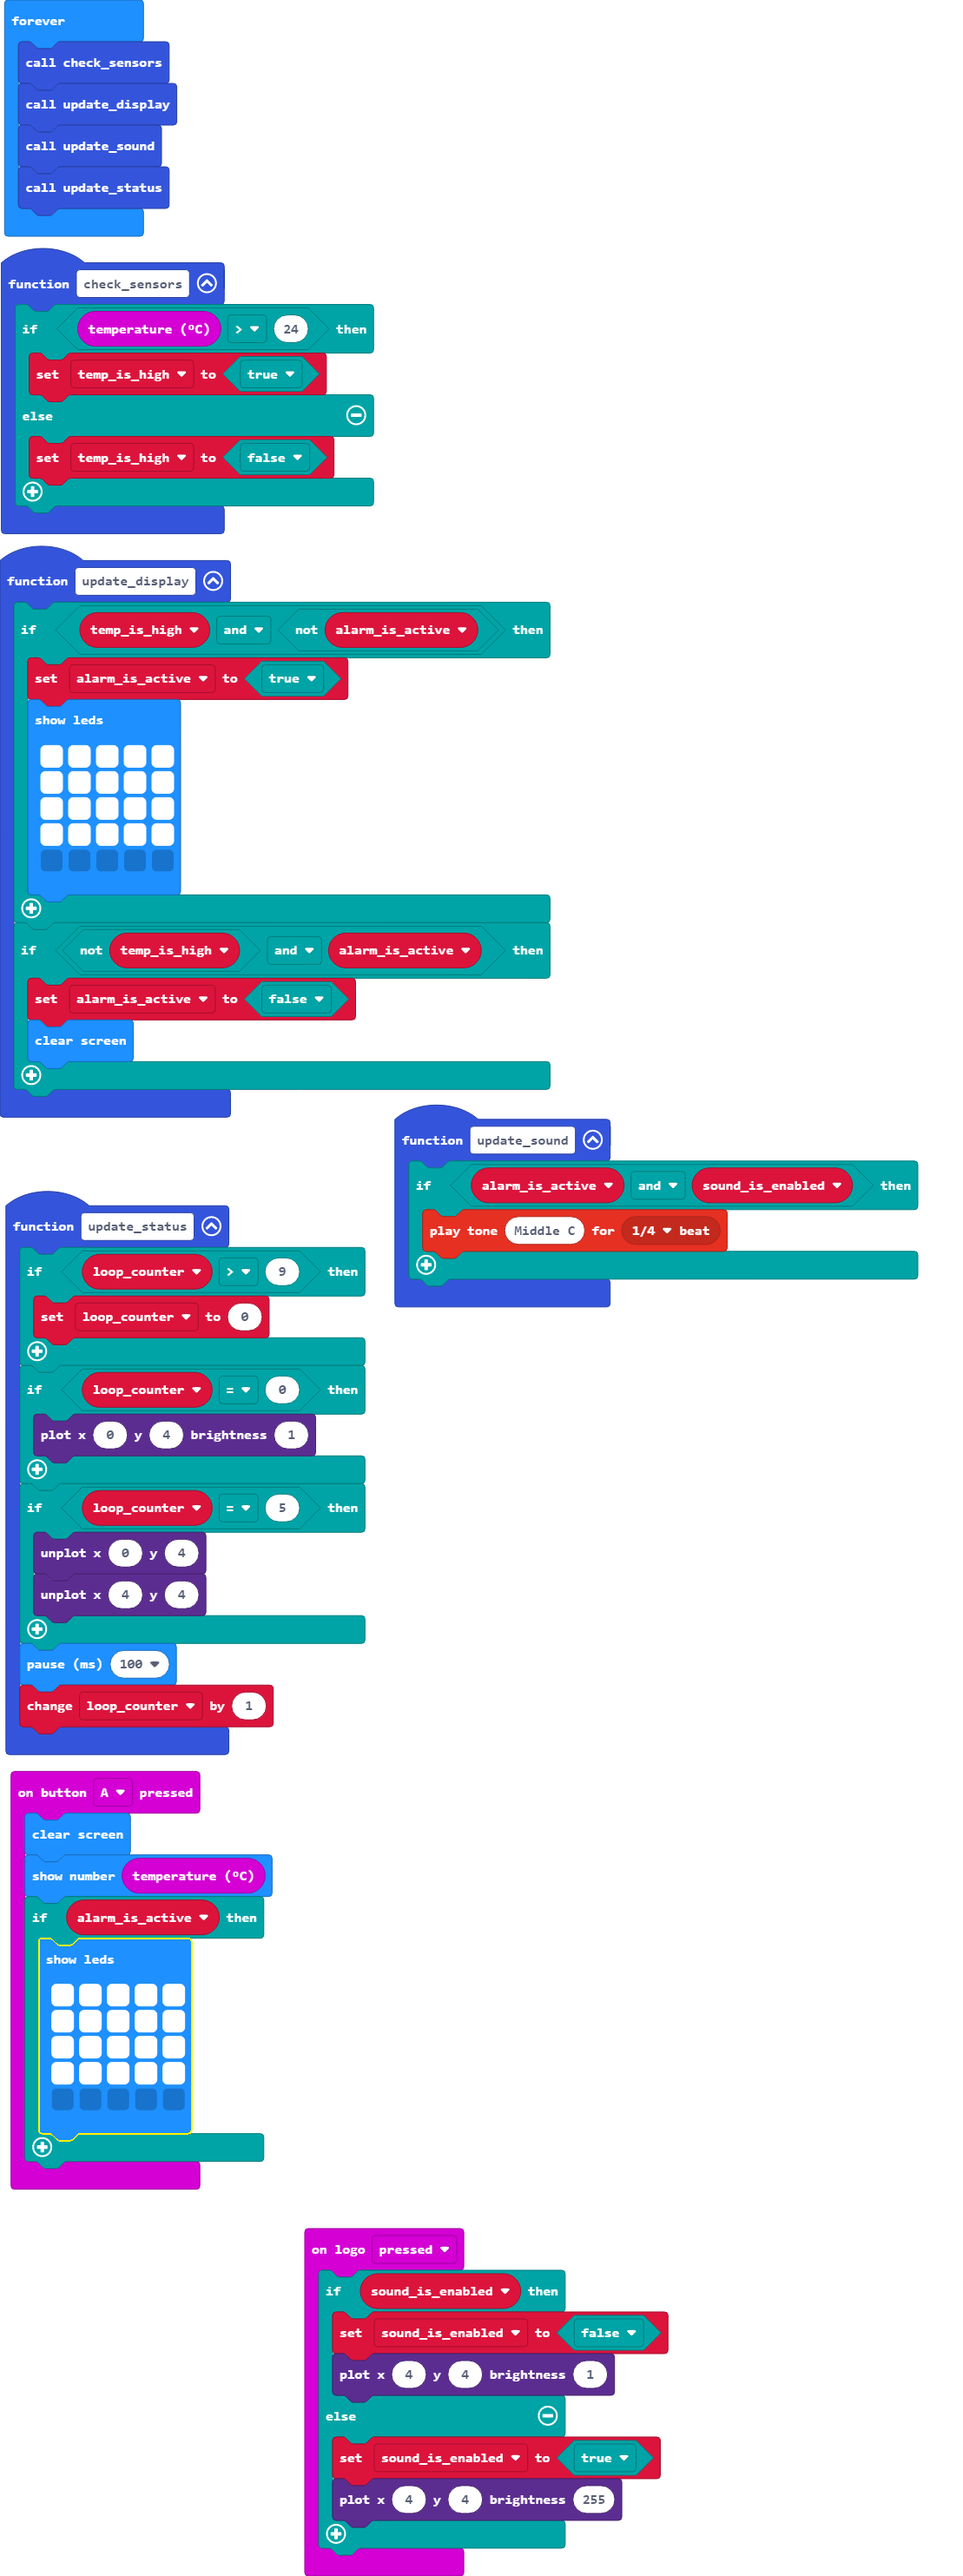
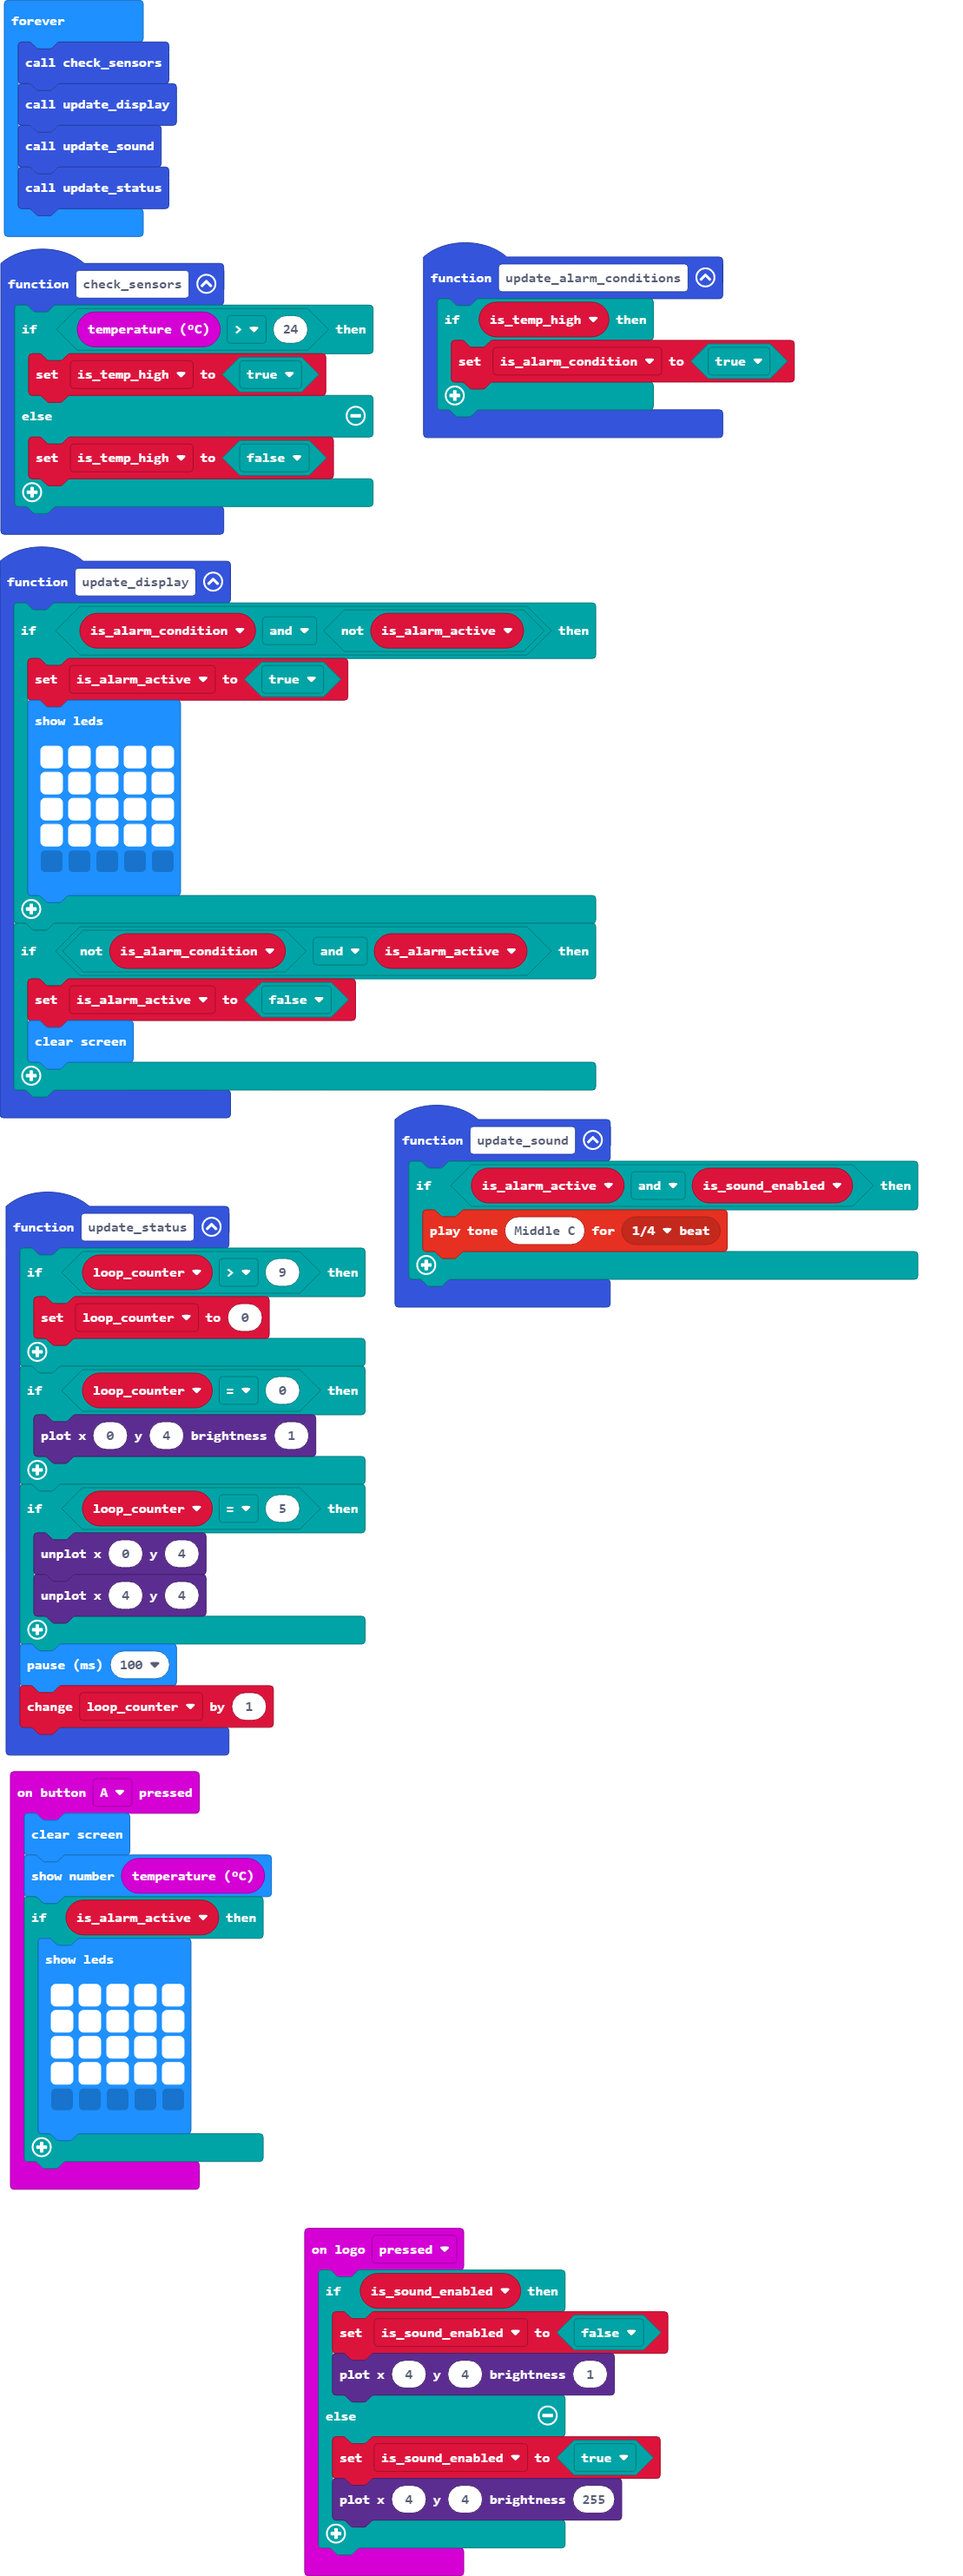
Update pxt.json, main.blocks, main.ts, main.py

diff --git a/main.ts b/main.ts
@@ -1,11 +1,12 @@
-let alarm_is_active = false
+let is_alarm_active = false
 let loop_counter = 0
-let sound_is_enabled = false
-let temp_is_high = false
+let is_sound_enabled = false
+let is_temp_high = false
+let is_alarm_condition = false
 input.onButtonPressed(Button.A, function () {
     basic.clearScreen()
     basic.showNumber(input.temperature())
-    if (alarm_is_active) {
+    if (is_alarm_active) {
         basic.showLeds(`
             # # # # #
             # # # # #
@@ -30,29 +31,29 @@ function update_status () {
     loop_counter += 1
 }
 function update_sound () {
-    if (alarm_is_active && sound_is_enabled) {
+    if (is_alarm_active && is_sound_enabled) {
         music.playTone(262, music.beat(BeatFraction.Quarter))
     }
 }
 function check_sensors () {
     if (input.temperature() > 24) {
-        temp_is_high = true
+        is_temp_high = true
     } else {
-        temp_is_high = false
+        is_temp_high = false
     }
 }
 input.onLogoEvent(TouchButtonEvent.Pressed, function () {
-    if (sound_is_enabled) {
-        sound_is_enabled = false
+    if (is_sound_enabled) {
+        is_sound_enabled = false
         led.plotBrightness(4, 4, 1)
     } else {
-        sound_is_enabled = true
+        is_sound_enabled = true
         led.plotBrightness(4, 4, 255)
     }
 })
 function update_display () {
-    if (temp_is_high && !(alarm_is_active)) {
-        alarm_is_active = true
+    if (is_alarm_condition && !(is_alarm_active)) {
+        is_alarm_active = true
         basic.showLeds(`
             # # # # #
             # # # # #
@@ -61,9 +62,14 @@ function update_display () {
             . . . . .
             `)
     }
-    if (!(temp_is_high) && alarm_is_active) {
-        alarm_is_active = false
+    if (!(is_alarm_condition) && is_alarm_active) {
+        is_alarm_active = false
         basic.clearScreen()
+    }
+}
+function update_alarm_conditions () {
+    if (is_temp_high) {
+        is_alarm_condition = true
     }
 }
 basic.forever(function () {

diff --git a/main.py b/main.py
@@ -1,0 +1,70 @@
+alarm_is_active = False
+loop_counter = 0
+sound_is_enabled = False
+temp_is_high = False
+
+def on_button_pressed_a():
+    basic.clear_screen()
+    basic.show_number(input.temperature())
+    if alarm_is_active:
+        basic.show_leds("""
+            # # # # #
+                        # # # # #
+                        # # # # #
+                        # # # # #
+                        . . . . .
+        """)
+input.on_button_pressed(Button.A, on_button_pressed_a)
+
+def update_status():
+    global loop_counter
+    if loop_counter > 9:
+        loop_counter = 0
+    if loop_counter == 0:
+        led.plot_brightness(0, 4, 1)
+    if loop_counter == 5:
+        led.unplot(0, 4)
+        led.unplot(4, 4)
+    basic.pause(100)
+    loop_counter += 1
+def update_sound():
+    if alarm_is_active and sound_is_enabled:
+        music.play_tone(262, music.beat(BeatFraction.QUARTER))
+def check_sensors():
+    global temp_is_high
+    if input.temperature() > 24:
+        temp_is_high = True
+    else:
+        temp_is_high = False
+
+def on_logo_pressed():
+    global sound_is_enabled
+    if sound_is_enabled:
+        sound_is_enabled = False
+        led.plot_brightness(4, 4, 1)
+    else:
+        sound_is_enabled = True
+        led.plot_brightness(4, 4, 255)
+input.on_logo_event(TouchButtonEvent.PRESSED, on_logo_pressed)
+
+def update_display():
+    global alarm_is_active
+    if temp_is_high and not (alarm_is_active):
+        alarm_is_active = True
+        basic.show_leds("""
+            # # # # #
+                        # # # # #
+                        # # # # #
+                        # # # # #
+                        . . . . .
+        """)
+    if not (temp_is_high) and alarm_is_active:
+        alarm_is_active = False
+        basic.clear_screen()
+
+def on_forever():
+    check_sensors()
+    update_display()
+    update_sound()
+    update_status()
+basic.forever(on_forever)
